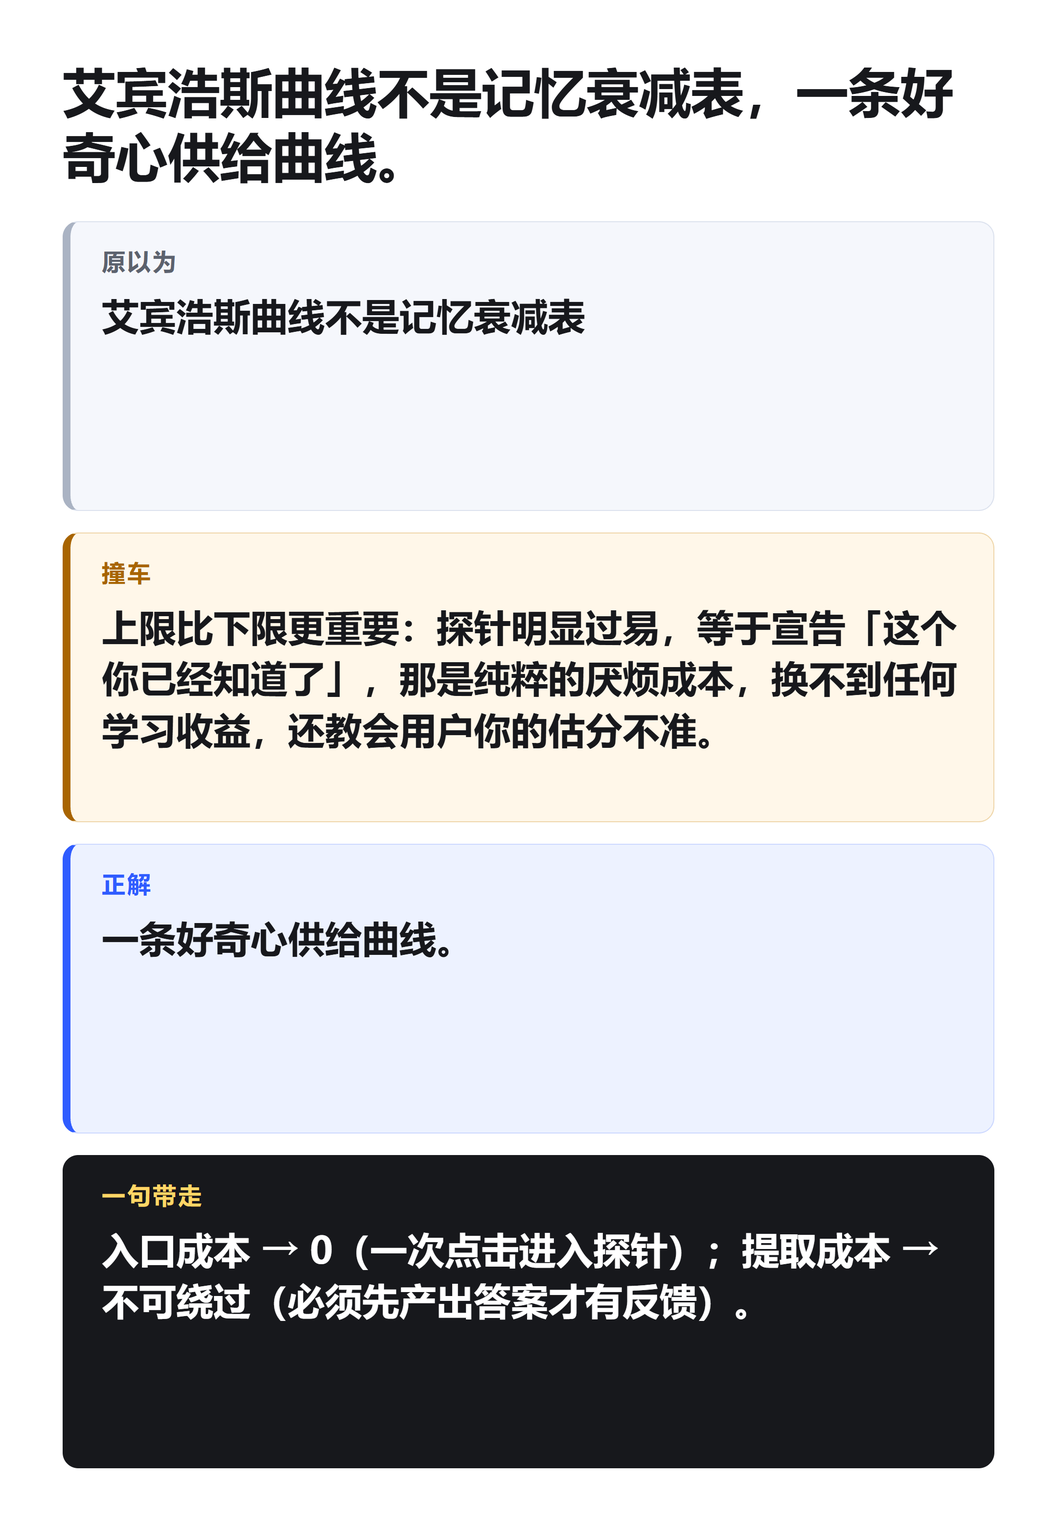
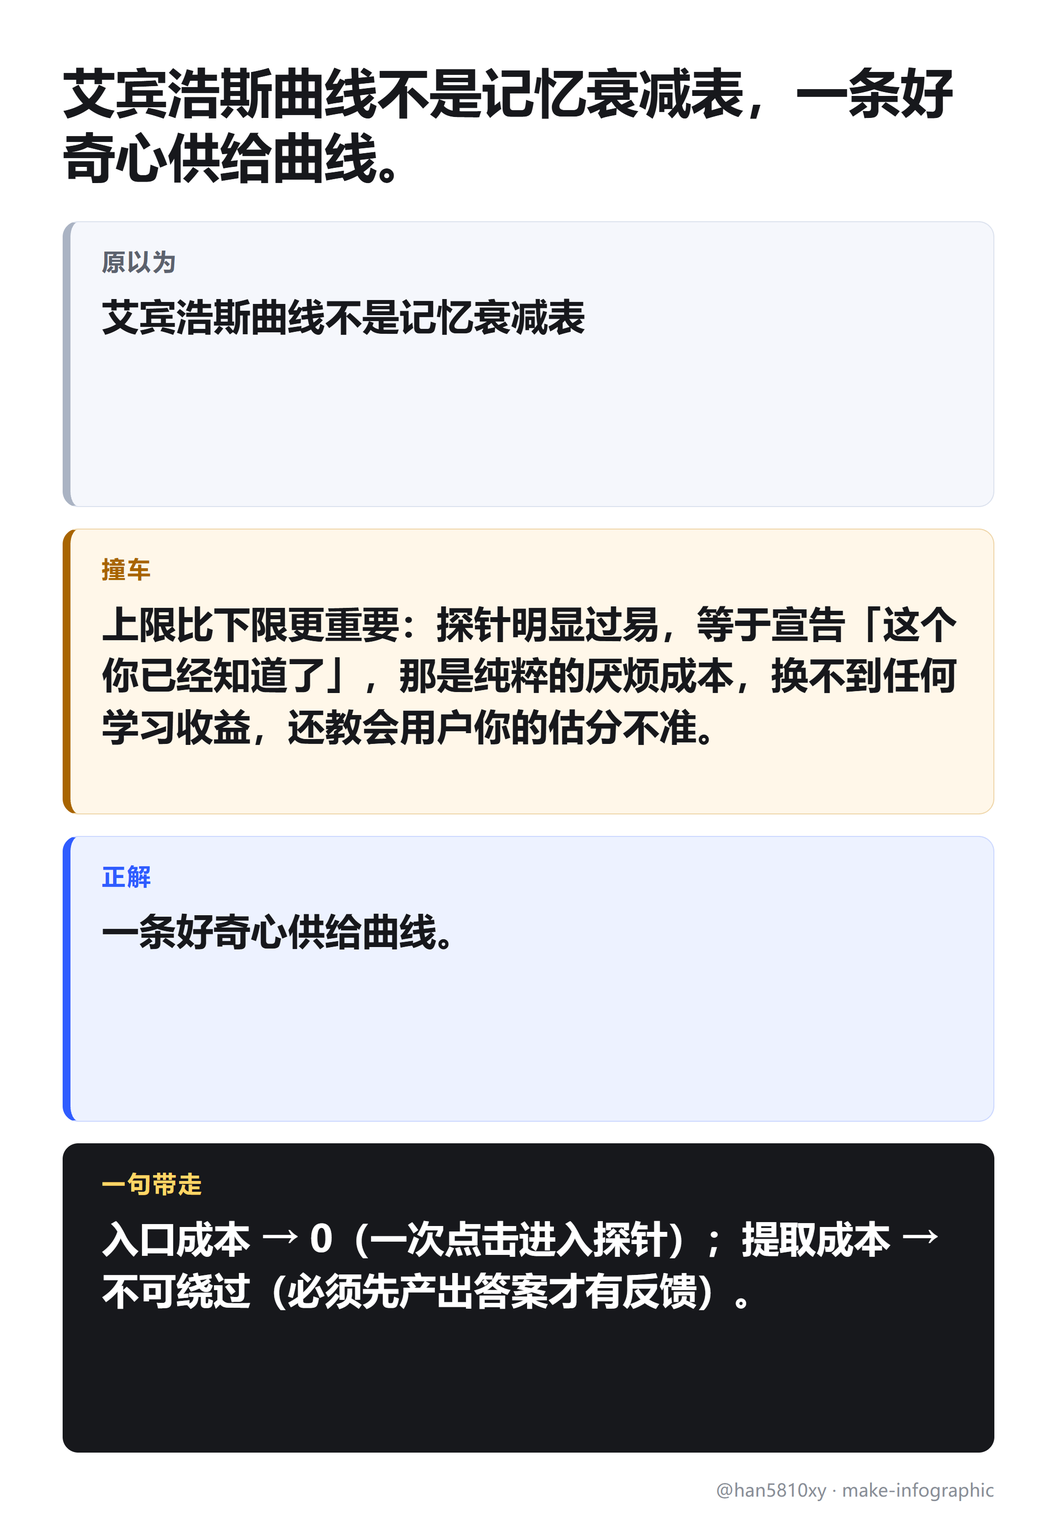
Add demo assets, zero-install web app, and sharper README

diff --git a/web/index.html b/web/index.html
@@ -1,0 +1,151 @@
+<!doctype html>
+<html lang="zh-CN">
+<head>
+  <meta charset="utf-8">
+  <meta name="viewport" content="width=device-width, initial-scale=1">
+  <meta name="description" content="把一段 AI 对话变成一张四块转弯图：原以为 → 撞车 → 正解 → 一句带走。">
+  <title>make-infographic · 一张图，一个转弯</title>
+  <style>
+    :root{--ink:#17181c;--muted:#656b76;--line:#dfe3ea;--wash:#f5f7fc;--brand:#2f5cff;--warn:#a86400;--warn-bg:#fff7e9;--paper:#fff;--bg:#f6f6f3}
+    *{box-sizing:border-box}body{margin:0;background:var(--bg);color:var(--ink);font-family:"Microsoft YaHei","PingFang SC","Noto Sans SC",system-ui,sans-serif;-webkit-font-smoothing:antialiased}
+    a{color:inherit}.shell{max-width:1180px;margin:0 auto;padding:28px 24px 48px}.top{display:flex;align-items:center;justify-content:space-between;gap:16px}.brand{font-size:15px;letter-spacing:.1em;color:var(--muted);font-weight:700}.top a{font-size:14px;text-decoration:none;color:var(--muted)}
+    .hero{margin:54px 0 34px;max-width:900px}.hero h1{font-size:clamp(36px,6vw,68px);line-height:1.08;letter-spacing:-1.5px;margin:0 0 18px}.hero p{font-size:clamp(17px,2.4vw,23px);line-height:1.6;color:#4b515b;margin:0}.hero p strong{color:var(--ink)}
+    .workspace{display:grid;grid-template-columns:minmax(0,1fr) minmax(320px,460px);gap:22px;align-items:start}.panel{background:var(--paper);border:1px solid var(--line);border-radius:18px;padding:20px}.panel h2{font-size:15px;margin:0 0 12px;color:var(--muted);font-weight:700;letter-spacing:.04em}.chips{display:flex;gap:8px;flex-wrap:wrap;margin-bottom:12px}.chip{border:1px solid var(--line);background:#fff;border-radius:999px;padding:7px 12px;font-size:13px;cursor:pointer;color:#3d434d}.chip:hover{border-color:#aeb8c8}
+    textarea{width:100%;min-height:250px;resize:vertical;border:1px solid var(--line);border-radius:12px;padding:14px;font:15px/1.65 inherit;color:var(--ink);background:#fcfcfd;outline:none}textarea:focus{border-color:var(--brand);box-shadow:0 0 0 3px rgba(47,92,255,.1)}.actions{display:flex;align-items:center;gap:12px;margin-top:14px}.primary{border:0;background:var(--ink);color:#fff;border-radius:10px;padding:12px 22px;font-size:16px;font-weight:700;cursor:pointer}.primary:hover{background:#000}.ghost{border:1px solid var(--line);background:#fff;border-radius:10px;padding:11px 16px;font-size:14px;cursor:pointer;color:#3d434d}.status{font-size:13px;color:var(--muted);line-height:1.5}
+    .preview{position:sticky;top:20px}.canvasWrap{display:flex;justify-content:center;background:#ecece8;border-radius:14px;padding:14px;min-height:300px}canvas{display:block;width:100%;max-width:360px;height:auto;background:#fff;box-shadow:0 8px 30px rgba(0,0,0,.08)}.previewHead{display:flex;align-items:center;justify-content:space-between;gap:10px;margin-bottom:12px}.previewHead h2{margin:0}.download{font-size:13px;padding:8px 12px}
+    .note{margin-top:14px;font-size:13px;line-height:1.6;color:var(--muted)}.install{margin-top:34px;background:var(--ink);color:#fff;border-radius:16px;padding:22px 24px;display:flex;align-items:center;justify-content:space-between;gap:18px;text-decoration:none}.install strong{font-size:18px}.install span{font-size:14px;color:#c9cdd5}.install b{font-size:22px}.foot{margin-top:22px;font-size:12px;color:#8a8f98;display:flex;justify-content:space-between;gap:12px;flex-wrap:wrap}
+    @media(max-width:820px){.shell{padding:20px 16px 36px}.hero{margin:36px 0 24px}.workspace{grid-template-columns:1fr}.preview{position:static}.canvasWrap{padding:10px}canvas{max-width:340px}.install{align-items:flex-start;flex-direction:column}.top a{display:none}}
+  </style>
+</head>
+<body>
+  <main class="shell">
+    <header class="top"><div class="brand">make-infographic</div><a href="https://github.com/han5810xy-dotcom/make-infographic" target="_blank" rel="noreferrer">GitHub ↗</a></header>
+    <section class="hero">
+      <h1>AI 记得每一次对话，<br>你只记得住一张图。</h1>
+      <p><strong>原以为 → 撞车 → 正解 → 一句带走。</strong><br>不是摘要，是记录你怎么想通的。</p>
+    </section>
+    <section class="workspace">
+      <div class="panel">
+        <h2>粘贴一段对话</h2>
+        <div class="chips" id="chips"></div>
+        <textarea id="source" spellcheck="false" aria-label="对话输入"></textarea>
+        <div class="actions">
+          <button class="primary" id="render">出图</button>
+          <button class="ghost" id="clear">清空</button>
+          <span class="status" id="status">不调模型，只在浏览器里整理。</span>
+        </div>
+        <div class="note">内置三个真实示例的预生成结果，并按关键词匹配。没有命中时会用简单规则整理，不会上传文本。</div>
+      </div>
+      <div class="panel preview">
+        <div class="previewHead"><h2>预览</h2><button class="ghost download" id="download" disabled>下载 PNG</button></div>
+        <div class="canvasWrap"><canvas id="card" width="1080" height="1560" aria-label="转弯图预览"></canvas></div>
+        <div class="note" id="matchNote">等待出图。</div>
+      </div>
+    </section>
+    <a class="install" href="https://github.com/han5810xy-dotcom/make-infographic#一行安装" target="_blank" rel="noreferrer">
+      <div><strong>想在自己的 Qoder 里用？</strong><br><span>选中一段对话，说「出图」。</span></div><b>安装 →</b>
+    </a>
+    <footer class="foot"><span>@han5810xy · make-infographic</span><span>纯前端 · 文本不离开浏览器</span></footer>
+  </main>
+  <script>
+    const examples = [
+      {
+        id: 'curiosity', name: '好奇心与间隔重复',
+        keywords: ['好奇','艾宾浩斯','复习','Anki','记忆','提取','厌烦','抖音','预测误差'],
+        dialogue: `用户：为什么有些内容让人厌烦，有些却让人停不下来？\n助手：更准确的拆法是把 wanting 和 liking 分开。多巴胺系统更接近想要和寻求，享乐系统更接近喜欢和满足。让两者解耦的关键是预测误差和新颖性：输入与预期高度吻合时信息量很低，人容易厌烦；存在缺口且未闭合时，人就会继续寻求。艾宾浩斯曲线不是记忆衰减表，是一条好奇心供给曲线。衰减制造缺口，缺口制造想要。Anki 把复习安排在快忘了的时刻，但更值得尝试的是在你几乎还答得上的时候安排提取。上限比下限更重要：探针明显过易，等于宣告这个你已经知道了，那是纯粹的厌烦成本。入口成本要接近零，提取成本不可绕过，必须先产出答案才有反馈。`,
+        card: {title:'艾宾浩斯曲线不是记忆衰减表，一条好奇心供给曲线。',before:'艾宾浩斯曲线不是记忆衰减表',snag:'上限比下限更重要：探针明显过易，等于宣告「这个你已经知道了」，那是纯粹的厌烦成本，换不到任何学习收益，还教会用户你的估分不准。',after:'一条好奇心供给曲线。',takeaway:'入口成本 → 0（一次点击进入探针）；提取成本 → 不可绕过（必须先产出答案才有反馈）。'}
+      },
+      {
+        id: 'skip', name: '跳过行为是证据',
+        keywords: ['跳过','探针','指标','会话时长','成瘾','行为数据','估分','噪声'],
+        dialogue: `用户：用户跳过探针，是不是直接当噪声忽略？\n助手：跳过行为别当噪声丢。用户跳过探针是全系统信息量最高的证据之一——行为数据，不是自评。它可能意味着估分过高、novelty 供给断裂、或情绪/时段不匹配，三者修法完全不同。`,
+        card: {title:'把跳过行为当噪声',before:'把跳过行为当噪声',snag:'它可能意味着估分过高、novelty 供给断裂、或情绪/时段不匹配，三者修法完全不同。',after:'用户跳过探针是全系统信息量最高的证据之一——行为数据，不是自评。',takeaway:'三者修法完全不同。'}
+      },
+      {
+        id: 'repeat', name: '重复节点，不重复卡片',
+        keywords: ['重复','节点','新奇','情景','载体','间隔','组合','范畴错误'],
+        dialogue: `用户：Anki 一直在重复卡片，用户还是会厌烦，问题在哪？\n助手：重复的对象是概念，新的载体必须是情景。同一节点、新情景，就既满足间隔重复又满足新奇供给。厌烦有很大一块是范畴错误：一个已经变成工具的节点还在被当作测验对象。Anki 重复卡片，你重复节点。排期算法一样，载荷每次是新的。`,
+        card: {title:'Anki 重复卡片，你重复节点。',before:'Anki 重复卡片',snag:'厌烦有很大一块是范畴错误：一个已经变成工具的节点还在被当作测验对象。',after:'你重复节点。',takeaway:'排期算法一样，载荷每次是新的。'}
+      }
+    ];
+    const source = document.querySelector('#source');
+    const statusEl = document.querySelector('#status');
+    const matchNote = document.querySelector('#matchNote');
+    const download = document.querySelector('#download');
+    const canvas = document.querySelector('#card');
+    const ctx = canvas.getContext('2d');
+    let currentCard = null;
+
+    function escapeHtml(value){return String(value).replace(/[&<>"']/g,c=>({'&':'&amp;','<':'&lt;','>':'&gt;','"':'&quot;',"'":'&#39;'}[c]));}
+    function buildChips(){
+      const box = document.querySelector('#chips');
+      box.innerHTML = examples.map(e=>`<button class="chip" data-id="${e.id}">${escapeHtml(e.name)}</button>`).join('');
+      box.querySelectorAll('button').forEach(button=>button.addEventListener('click',()=>{
+        const item=examples.find(e=>e.id===button.dataset.id);source.value=item.dialogue;statusEl.textContent=`已载入示例：${item.name}`;
+      }));
+    }
+    function matchExample(text){
+      let best=null,bestScore=0;
+      for(const item of examples){
+        let score=0;for(const key of item.keywords){if(text.includes(key))score+=1;}
+        if(score>bestScore){best=item;bestScore=score;}
+      }
+      return best;
+    }
+    function firstSentence(text,regex,fallback=''){
+      const clean=text.replace(/\s+/g,' ').trim();
+      const parts=clean.split(/(?<=[。！？!?])/).map(s=>s.trim()).filter(Boolean);
+      return parts.find(s=>regex.test(s))||fallback||parts[0]||'';
+    }
+    function genericCard(text){
+      const before=firstSentence(text,/以为|觉得|原来|相信|默认/,'我原来以为这件事很简单。');
+      const snag=firstSentence(text,/但|然而|其实|不是|反例|代价|问题|错/,'新的证据让原来的判断站不住。');
+      const after=firstSentence(text,/应该|正确|所以|其实|改为|而是|真正/,'更准确的理解应当重新核对证据。');
+      const takeaway=after.length>56?after.slice(0,56):after;
+      return {title:takeaway,before:before.slice(0,56),snag:snag.slice(0,90),after:after.slice(0,56),takeaway};
+    }
+    function wrapText(text,maxWidth,font){
+      ctx.font=font;const lines=[];let line='';
+      for(const ch of String(text)){
+        const test=line+ch;
+        if(ctx.measureText(test).width>maxWidth&&line){lines.push(line);line=ch;}else line=test;
+      }
+      if(line)lines.push(line);return lines;
+    }
+    function roundedRect(x,y,w,h,r,fill,stroke){
+      ctx.beginPath();ctx.roundRect(x,y,w,h,r);if(fill){ctx.fillStyle=fill;ctx.fill();}if(stroke){ctx.strokeStyle=stroke;ctx.lineWidth=2;ctx.stroke();}
+    }
+    function drawCard(card){
+      const W=1080,H=1560;ctx.clearRect(0,0,W,H);ctx.fillStyle='#fff';ctx.fillRect(0,0,W,H);
+      const pad=64;let y=60;
+      ctx.fillStyle='#17181c';ctx.font='800 54px "Microsoft YaHei","PingFang SC",sans-serif';
+      const titleLines=wrapText(card.title,W-pad*2,ctx.font).slice(0,3);
+      for(const line of titleLines){ctx.fillText(line,pad,y+54);y+=66;}y+=26;
+      const blocks=[['原以为',card.before,'#f5f7fc','#aab3c3','#5c626e'],['撞车',card.sn,'#fff7e9','#a86400','#a86400'],['正解',card.after,'#edf2ff','#2f5cff','#2f5cff'],['一句带走',card.takeaway,'#17181c','#17181c','#ffd666']];
+      const labels=['原以为','撞车','正解','一句带走'];const values=[card.before,card.snag,card.after,card.takeaway];
+      const colors=[['#f5f7fc','#aab3c3','#5c626e'],['#fff7e9','#a86400','#a86400'],['#edf2ff','#2f5cff','#2f5cff'],['#17181c','#17181c','#ffd666']];
+      const available=H-y-92;const gap=22;const heights=[.92,1.18,.92,1.02];const total=heights.reduce((a,b)=>a+b,0);
+      for(let i=0;i<4;i++){
+        const h=(available-gap*3)*heights[i]/total;const [fill,border,labelColor]=colors[i];
+        roundedRect(pad,y,W-pad*2,h,16,fill,'#dce2ee');ctx.fillStyle=border;ctx.fillRect(pad,y,8,h);
+        ctx.fillStyle=labelColor;ctx.font='800 24px "Microsoft YaHei","PingFang SC",sans-serif';ctx.fillText(labels[i],pad+32,y+42);
+        ctx.fillStyle=i===3?'#fff':'#17181c';ctx.font='600 38px "Microsoft YaHei","PingFang SC",sans-serif';
+        const lines=wrapText(values[i],W-pad*2-64,ctx.font);let ty=y+92;
+        for(const line of lines){if(ty>y+h-18)break;ctx.fillText(line,pad+32,ty);ty+=52;}
+        y+=h+gap;
+      }
+      ctx.fillStyle='#8a8f98';ctx.font='500 18px "Microsoft YaHei","PingFang SC",sans-serif';ctx.textAlign='right';ctx.fillText('@han5810xy · make-infographic',W-pad,H-28);ctx.textAlign='left';
+    }
+    function render(){
+      const text=source.value.trim();if(!text){statusEl.textContent='先粘贴一段对话。';return;}
+      const matched=matchExample(text);const card=matched?matched.card:genericCard(text);currentCard=card;drawCard(card);
+      download.disabled=false;matchNote.textContent=matched?`命中内置示例：${matched.name}`:'未命中内置示例，已按简单规则整理。';
+      statusEl.textContent='已生成，可下载 PNG。';
+    }
+    buildChips();source.value=examples[0].dialogue;drawCard(examples[0].card);currentCard=examples[0].card;download.disabled=false;matchNote.textContent='内置示例：好奇心与间隔重复';
+    document.querySelector('#render').addEventListener('click',render);
+    document.querySelector('#clear').addEventListener('click',()=>{source.value='';source.focus();statusEl.textContent='已清空。';});
+    download.addEventListener('click',()=>{if(!currentCard)return;const a=document.createElement('a');a.href=canvas.toDataURL('image/png');a.download='make-infographic.png';document.body.appendChild(a);a.click();a.remove();});
+  </script>
+</body>
+</html>

diff --git a/README.md b/README.md
@@ -1,12 +1,14 @@
-<p align="center">
-  <img src="docs/images/curiosity.png" width="220" alt="原以为、撞车、正解、一句带走：好奇心供给曲线" />
-  <img src="docs/images/skip-signal.png" width="220" alt="原以为、撞车、正解、一句带走：跳过探针是证据" />
-  <img src="docs/images/repeat-node.png" width="220" alt="原以为、撞车、正解、一句带走：重复节点不重复卡片" />
-</p>
+# AI 记得每一次对话，你只记得住一张图。
 
-# make-infographic
+<img src="assets/demo.gif" width="720" alt="在 Qoder 中选中对话，输入出图，生成四块转弯图" />
 
-把一段 AI 对话变成一张竖图：**原以为 → 撞车 → 正解 → 一句带走**。不是摘要配图，而是记录你怎样想通。
+**原以为 → 撞车 → 正解 → 一句带走。** 不是摘要，是记录你怎么想通的。
+
+## 先零安装体验
+
+[https://han5810xy-dotcom.github.io/make-infographic/](https://han5810xy-dotcom.github.io/make-infographic/)
+
+粘贴一段对话，点「出图」，直接渲染并下载 PNG。纯前端，不调模型，文本不离开浏览器。
 
 ## 一行安装
 
@@ -22,29 +24,33 @@ macOS / Linux：
 curl -L -o install.mjs https://raw.githubusercontent.com/han5810xy-dotcom/make-infographic/main/dist/install.mjs && curl -L -o make-infographic-1.0.0.zip https://github.com/han5810xy-dotcom/make-infographic/releases/download/v1.0.0/make-infographic-1.0.0.zip && node install.mjs
 ```
 
-安装脚本会自动找到 Qoder、Claude 或 DSH 的技能目录，检查 Node、pnpm、Edge / Chrome，并装好截图依赖。缺什么会用一句人话告诉你。
+装好后，在 Qoder 里选中一段对话，说：**出图**。
 
-## 怎么用
+## 三个示例
 
-在 Qoder 里选中一段问答、讨论或笔记，对它说：**出图**。
+<p align="center">
+  <a href="examples/01-curiosity/"><img src="assets/01-curiosity.png" width="220" alt="好奇心与间隔重复" /></a>
+  <a href="examples/02-skip-signal/"><img src="assets/02-skip-signal.png" width="220" alt="跳过行为是证据" /></a>
+  <a href="examples/03-repeat-node/"><img src="assets/03-repeat-node.png" width="220" alt="重复节点，不重复卡片" /></a>
+</p>
 
-所有内容只留在本机，不需要 API key，也不会上传对话。
+- [好奇心与间隔重复](examples/01-curiosity/)：艾宾浩斯曲线不是记忆衰减表，而是一条好奇心供给曲线。
+- [跳过行为是证据](examples/02-skip-signal/)：用户跳过探针不是噪声，是系统信息量最高的行为数据之一。
+- [重复节点，不重复卡片](examples/03-repeat-node/)：Anki 重复卡片，你重复节点；排期算法一样，载荷每次是新的。
 
-## 它会自动处理什么
+## 十分钟验证
 
-- 缺「原以为」「撞车」或「正解」：不出图，并说清缺哪一块。
-- 正文超过 300 字：自动裁剪，终端打印「未上图」清单；不缩字、不截断、不用省略号。
-- 原话不逐字：自动标为「归纳」，只写进 JSON 和终端，不画到图上。
-- 传入旧版式：自动换成四块转弯图。
-- 1080px 主稿正文 38px，缩到 600px 宽约 21.1px。
+**待验证。** 作者尚未完成“10 段真实对话 → 三天后只看图复述”的延迟实验，因此不填虚构数字。
 
-## 文件
+当前已完成的是工程验收：准确 ZIP 全新安装、Qoder 自然语言触发、真实对话出图、引用资源读取、异常输入拒绝、PNG 下载与移动端布局。工程通过不等于学习效果已被证明。
 
-- `dist/make-infographic-1.0.0.zip`：可安装的 Skill 包。
-- `dist/install.mjs`：自动安装脚本。
-- `dist/README.md`：写给不会写代码的人看的安装与使用说明。
-- `examples/`：三段真实对话和对应转弯图。
-- `RELEASE.md`：1.0.0 发布说明。
+## 边界
+
+- 单张可见正文不超过 300 字；超限自动裁剪，不缩字号、不截断、不用省略号。
+- 缺少「原以为」「撞车」或「正解」时拒绝出图，不编造反转。
+- 非逐字内容标为「归纳」，只进入 JSON 与终端，不画到图上。
+- 使用本机 Edge 或 Chrome；不会自动下载 Chromium，不需要 API Key。
+- 浏览器不可用时只能生成 HTML，并明确标注「未实测」。
 
 ## License
 

diff --git a/README.en.md b/README.en.md
@@ -1,0 +1,57 @@
+# AI remembers every conversation. You remember one image.
+
+<img src="assets/demo.gif" width="720" alt="Select a conversation in Qoder, type 出图, and get a four-part turn card" />
+
+**Before → Collision → Correction → Takeaway.** Not a summary — a record of how your thinking changed.
+
+## Try it without installing
+
+[https://han5810xy-dotcom.github.io/make-infographic/](https://han5810xy-dotcom.github.io/make-infographic/)
+
+Paste a conversation, click 出图, and download the PNG. It runs entirely in your browser, calls no model, and never uploads your text.
+
+## One-line install
+
+Windows PowerShell:
+
+```powershell
+curl.exe -L -o install.mjs https://raw.githubusercontent.com/han5810xy-dotcom/make-infographic/main/dist/install.mjs; curl.exe -L -o make-infographic-1.0.0.zip https://github.com/han5810xy-dotcom/make-infographic/releases/download/v1.0.0/make-infographic-1.0.0.zip; node install.mjs
+```
+
+macOS / Linux:
+
+```bash
+curl -L -o install.mjs https://raw.githubusercontent.com/han5810xy-dotcom/make-infographic/main/dist/install.mjs && curl -L -o make-infographic-1.0.0.zip https://github.com/han5810xy-dotcom/make-infographic/releases/download/v1.0.0/make-infographic-1.0.0.zip && node install.mjs
+```
+
+Then select a conversation in Qoder and say: **出图**.
+
+## Three examples
+
+<p align="center">
+  <a href="examples/01-curiosity/"><img src="assets/01-curiosity.png" width="220" alt="Curiosity and spaced repetition" /></a>
+  <a href="examples/02-skip-signal/"><img src="assets/02-skip-signal.png" width="220" alt="Skipping is evidence" /></a>
+  <a href="examples/03-repeat-node/"><img src="assets/03-repeat-node.png" width="220" alt="Repeat nodes, not cards" /></a>
+</p>
+
+- [Curiosity and spaced repetition](examples/01-curiosity/): the forgetting curve is also a curiosity supply curve.
+- [Skipping is evidence](examples/02-skip-signal/): a skipped probe is behavioral data, not noise.
+- [Repeat nodes, not cards](examples/03-repeat-node/): keep the schedule, change the payload.
+
+## Ten-minute validation
+
+**Pending.** The author has not yet run the delayed-recall experiment with 10 real conversations and a three-day gap, so no number is claimed here.
+
+Engineering checks are complete: clean install from the exact ZIP, natural-language trigger in Qoder, real dialogue rendering, resource reads, invalid-input rejection, PNG download, and mobile layout. Engineering success is not proof of learning effectiveness.
+
+## Boundaries
+
+- Visible body text is capped at 300 characters; overflow is trimmed without shrinking type, truncation, or ellipses.
+- Missing Before, Collision, or Correction blocks stop rendering instead of inventing a twist.
+- Non-verbatim text is marked as a summary in JSON and terminal output only.
+- Uses installed Edge or Chrome; never downloads Chromium and needs no API key.
+- Without a browser, only HTML can be generated and is explicitly marked untested.
+
+## License
+
+MIT. See [LICENSE](LICENSE).

diff --git a/assets/social-post.md b/assets/social-post.md
@@ -1,0 +1,22 @@
+# 社交文案
+
+## 1. 中文短版（V2EX / 即刻 / 小红书）
+
+AI 记得每一次对话，你只记得住一张图。我把一段对话压成「原以为 → 撞车 → 正解 → 一句带走」，不是摘要，是记录你怎么想通的。纯前端可试，也能装进 Qoder。
+
+配图：`assets/before-after.png`  
+链接：https://github.com/han5810xy-dotcom/make-infographic
+
+## 2. 英文版（X / Hacker News）
+
+AI remembers every conversation; you remember one image. I built make-infographic to turn a dialogue into Before → Collision → Correction → Takeaway, with a zero-install web demo and a Qoder Skill.
+
+GIF: `assets/demo.gif`  
+Link: https://github.com/han5810xy-dotcom/make-infographic
+
+## 3. 中文发布帖（GitHub / 博客 / 社区长帖）
+
+做这个项目，是因为我总在三天后忘记一段对话到底改变了我什么。于是我把聊天记录收成一张四块转弯图：原来相信什么、被什么撞翻、最后改成什么、带走哪一句。它不调模型，不上传文本；网页版可以直接粘贴出图，Qoder 版选中对话说「出图」即可。项目、三个真实示例和安装包都在这里。
+
+配图：`assets/demo.gif` 或 `assets/social-preview.png`  
+链接：https://github.com/han5810xy-dotcom/make-infographic
